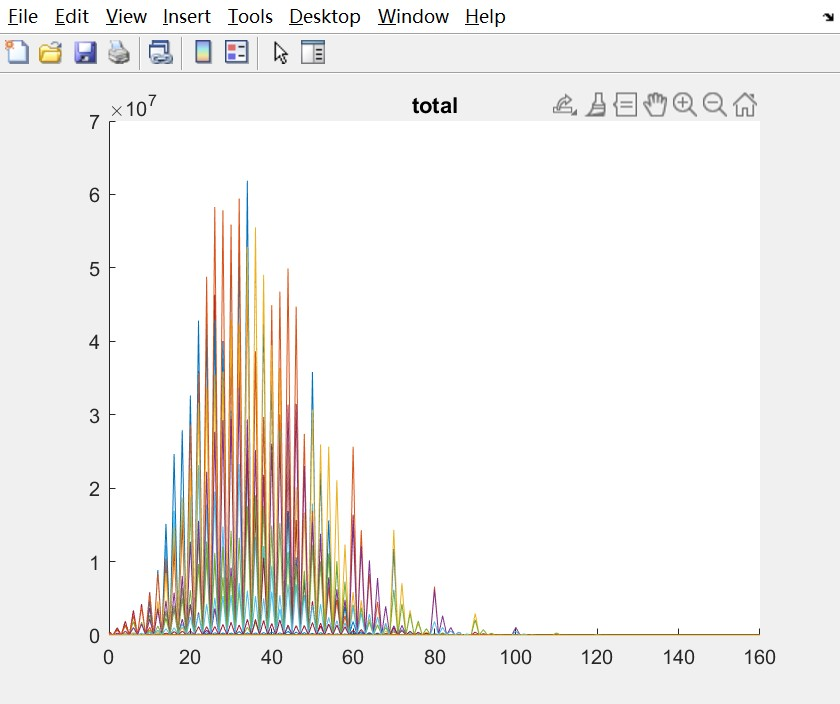
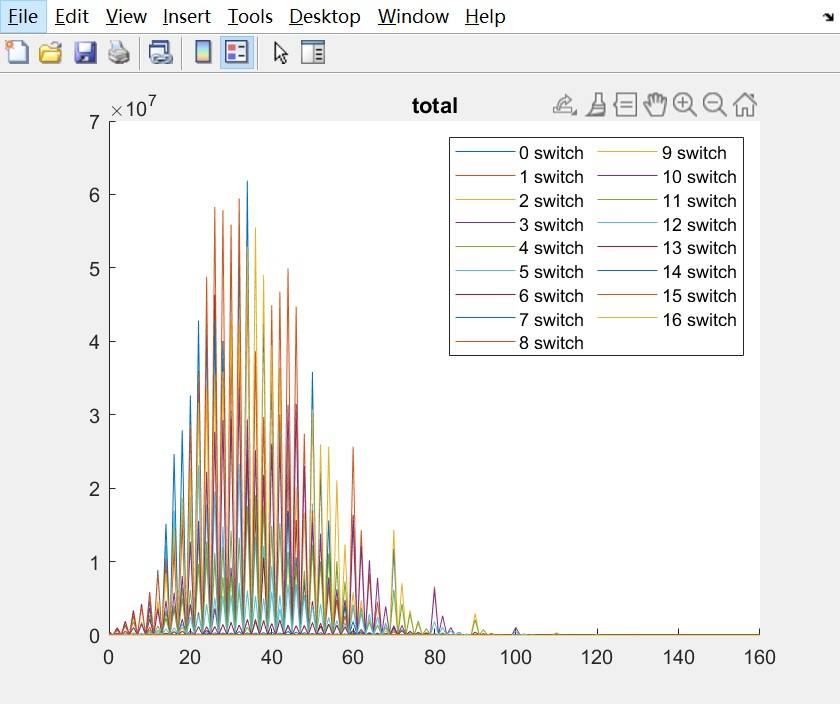
Upload graphs with legends

Changed region(s): [[0.5262, 0.1875, 0.8976, 0.5], [0.2476, 0.0312, 0.3095, 0.125], [0.0, 0.0, 0.0619, 0.0625]]

diff --git a/Plots.m b/Plots.m
@@ -11,6 +11,7 @@ load(strcat('counts_', num2str(n)));
 total_max = 1;
 len = size(counts, 2);
 % x = 0 : len - 1;
+figure(1);
 for i = 1:n + 1
     local_max = 1;
     for j = 1:len
@@ -26,16 +27,29 @@ for i = 1:n + 1
     subplot(xLen, yLen, i + 1);
     plot(x, counts(i, 1:local_max));
     
-    title(num2str(i - 1));
-    % xlabel('changes');
-    % ylabel('counts');
+    title(strcat(num2str(i - 1), ' bit switch'));
+    xlabel('num of wires flipped');
+    ylabel('occurence');
 end
 
 x = 0 : total_max - 1;
 subplot(xLen, yLen, 1);
-% figure(2);
 hold on;
 for i = 1:n + 1
-    plot(x, counts(i, 1:total_max));
+    plot(x, counts(i, 1:total_max), 'Displayname', strcat(num2str(i - 1), ' switch'));
 end
 title('total');
+hold off;
+lgd = legend;
+lgd.NumColumns = 2;
+
+
+figure(2);
+hold on;
+for i = 1:n + 1
+    plot(x, counts(i, 1:total_max), 'Displayname', strcat(num2str(i - 1), ' switch'));
+end
+title('total');
+hold off;
+lgd = legend;
+lgd.NumColumns = 2;
